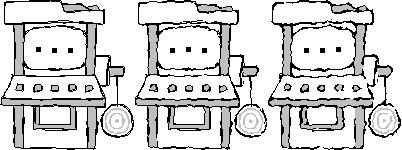
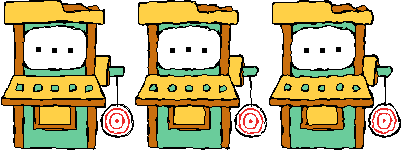
hero enemy bugfix and slot machine

diff --git a/src/Enemies/GunPCannonBall.java b/src/Enemies/GunPCannonBall.java
@@ -60,7 +60,9 @@ public class GunPCannonBall extends Enemy {
 
         for (Enemy enemy : map.getActiveEnemies()) {
             if (enemy != this &&
-                    enemy.getMapEntityStatus() == MapEntityStatus.ACTIVE && this.intersects(enemy)) {
+                    enemy.getMapEntityStatus() == MapEntityStatus.ACTIVE &&
+                    (!(enemy instanceof HeroEnemy) || ((HeroEnemy) enemy).canBeShot()) &&
+                    this.intersects(enemy)) {
 				
                 if (enemy instanceof IDamagable) {
                     if(!(enemy instanceof IArmored)) {

diff --git a/src/Enemies/GunPOne.java b/src/Enemies/GunPOne.java
@@ -59,7 +59,9 @@ public class GunPOne extends Enemy {
 
         for (Enemy enemy : map.getActiveEnemies()) {
             if (enemy != this &&
-                    enemy.getMapEntityStatus() == MapEntityStatus.ACTIVE && this.intersects(enemy)) {
+                    enemy.getMapEntityStatus() == MapEntityStatus.ACTIVE &&
+                    (!(enemy instanceof HeroEnemy) || ((HeroEnemy) enemy).canBeShot()) &&
+                    this.intersects(enemy)) {
 				
                 if (enemy instanceof IDamagable) {
                     if(!(enemy instanceof IArmored)) {

diff --git a/src/Enemies/GunPTwelveShot.java b/src/Enemies/GunPTwelveShot.java
@@ -59,6 +59,7 @@ public class GunPTwelveShot extends Enemy {
             if (enemy != this &&
                     enemy.getMapEntityStatus() == MapEntityStatus.ACTIVE 
                     && !(enemy instanceof GunPTwelveShot)
+                    && (!(enemy instanceof HeroEnemy) || ((HeroEnemy) enemy).canBeShot())
                     && this.intersects(enemy)) {
                 if (enemy instanceof IDamagable) {
                     if(!(enemy instanceof IArmored)) {

diff --git a/src/Enemies/HeroEnemy.java b/src/Enemies/HeroEnemy.java
@@ -203,6 +203,10 @@ public class HeroEnemy extends Enemy implements IDamagable {
     public int getHealth() {
         return health;
     }
+
+    public boolean canBeShot() {
+        return heroState == HeroState.IDLE;
+    }
     
     public void takeDamage(int damage) {
         if (heroState != HeroState.IDLE || damage <= 0) {
